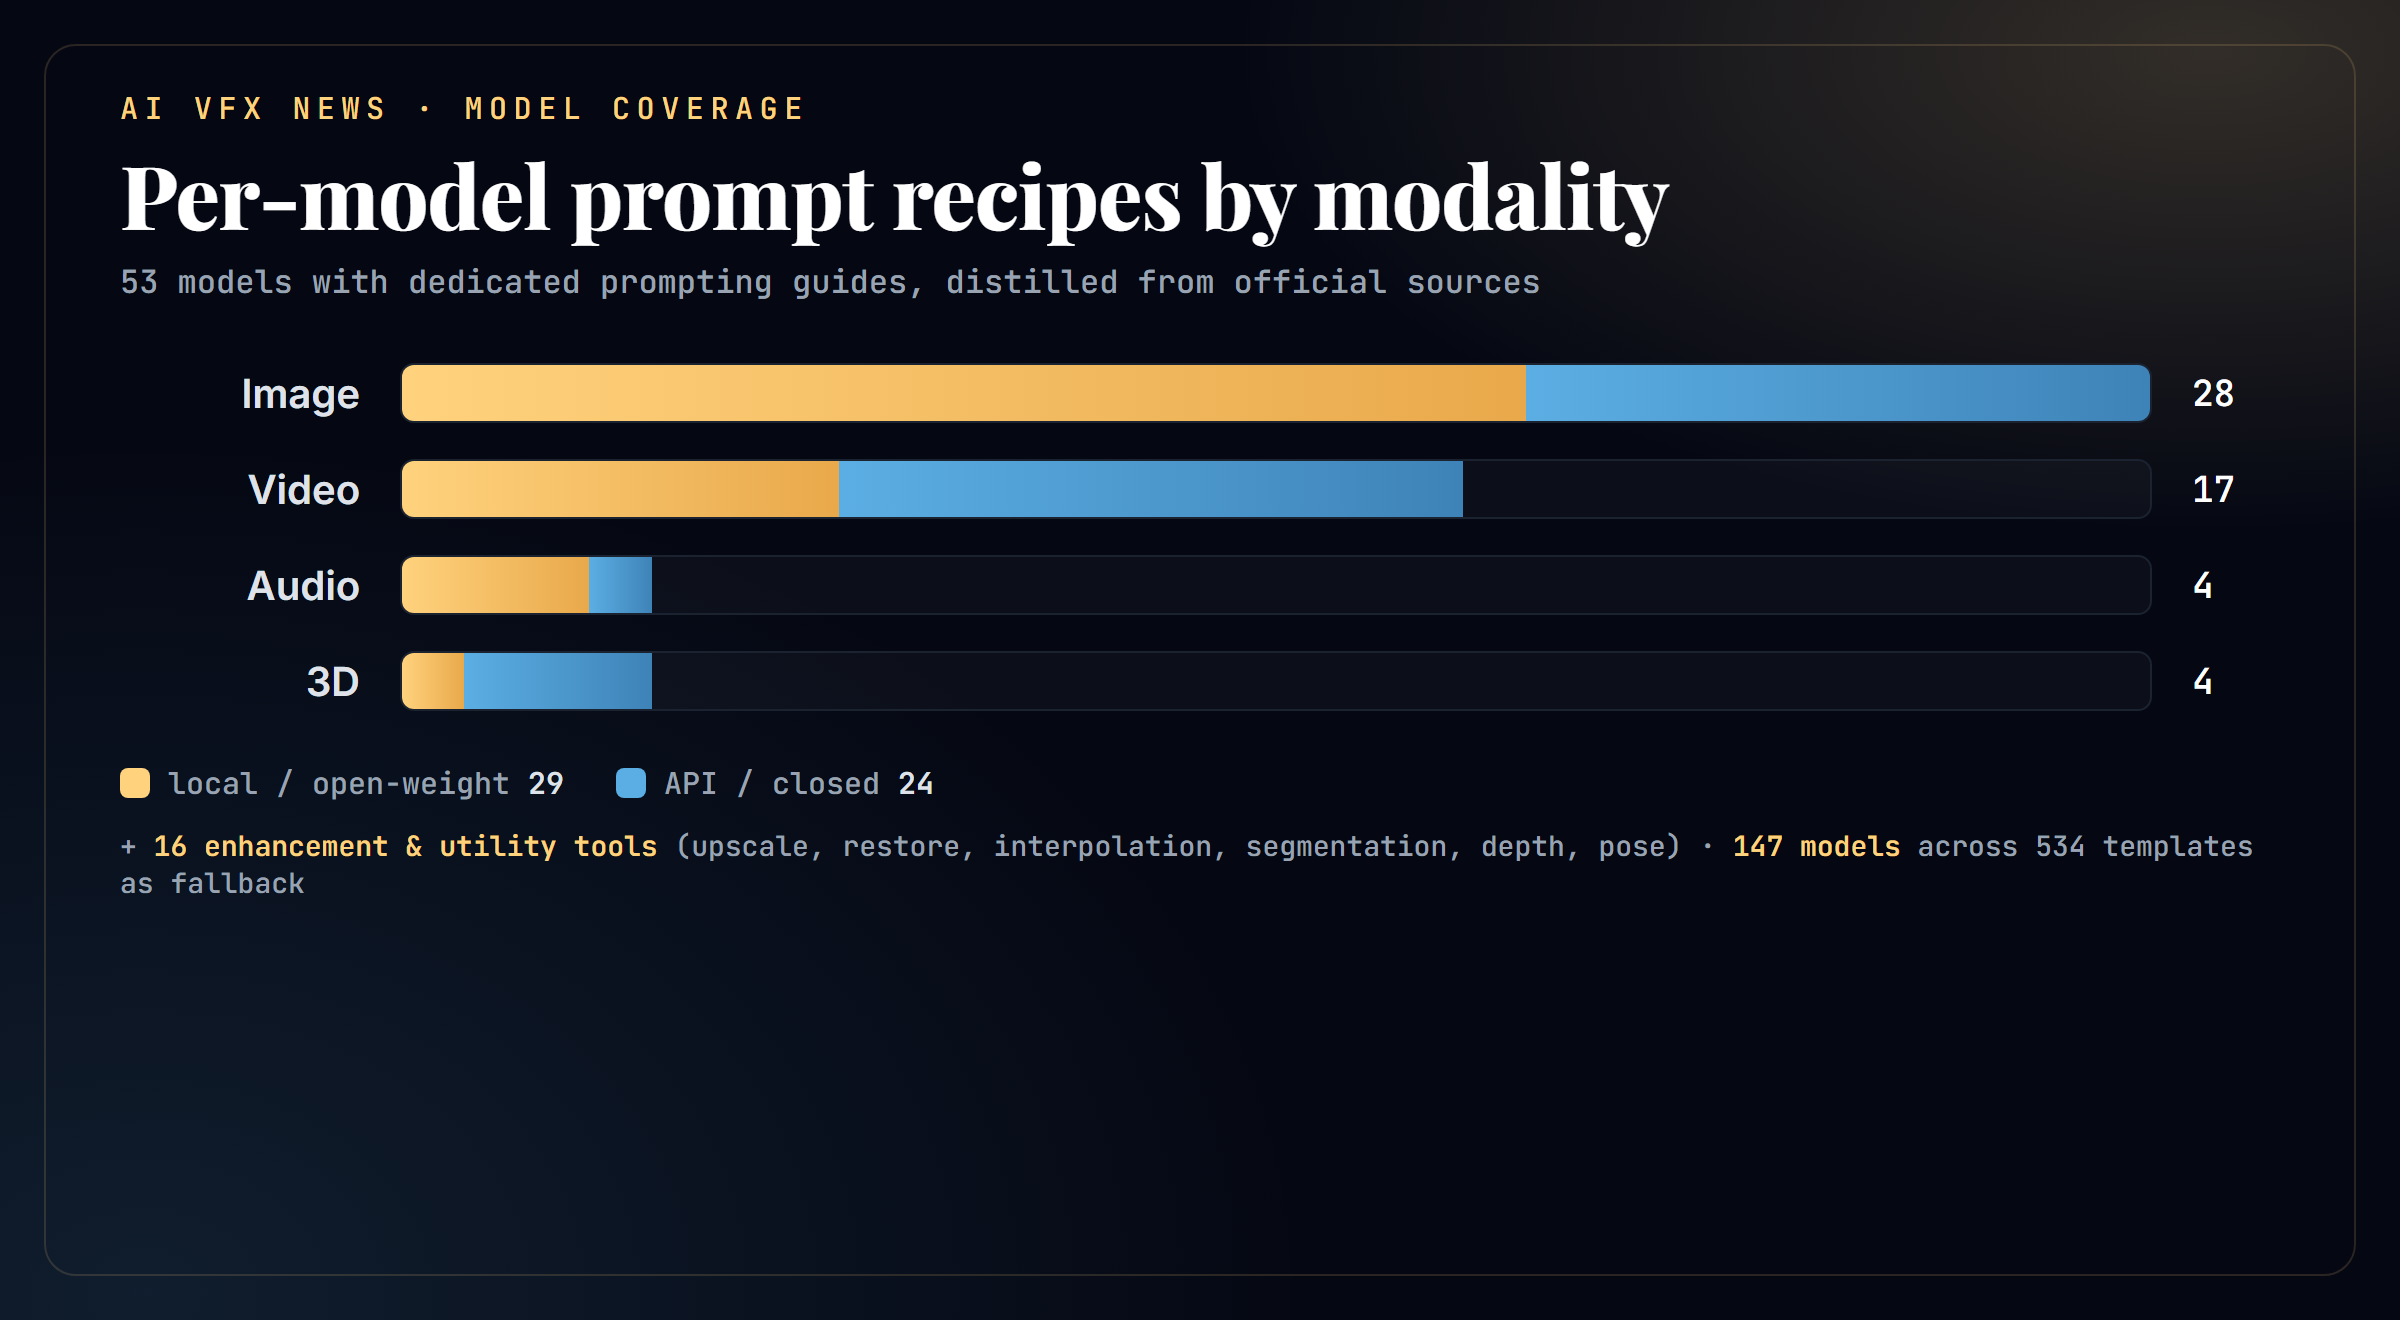
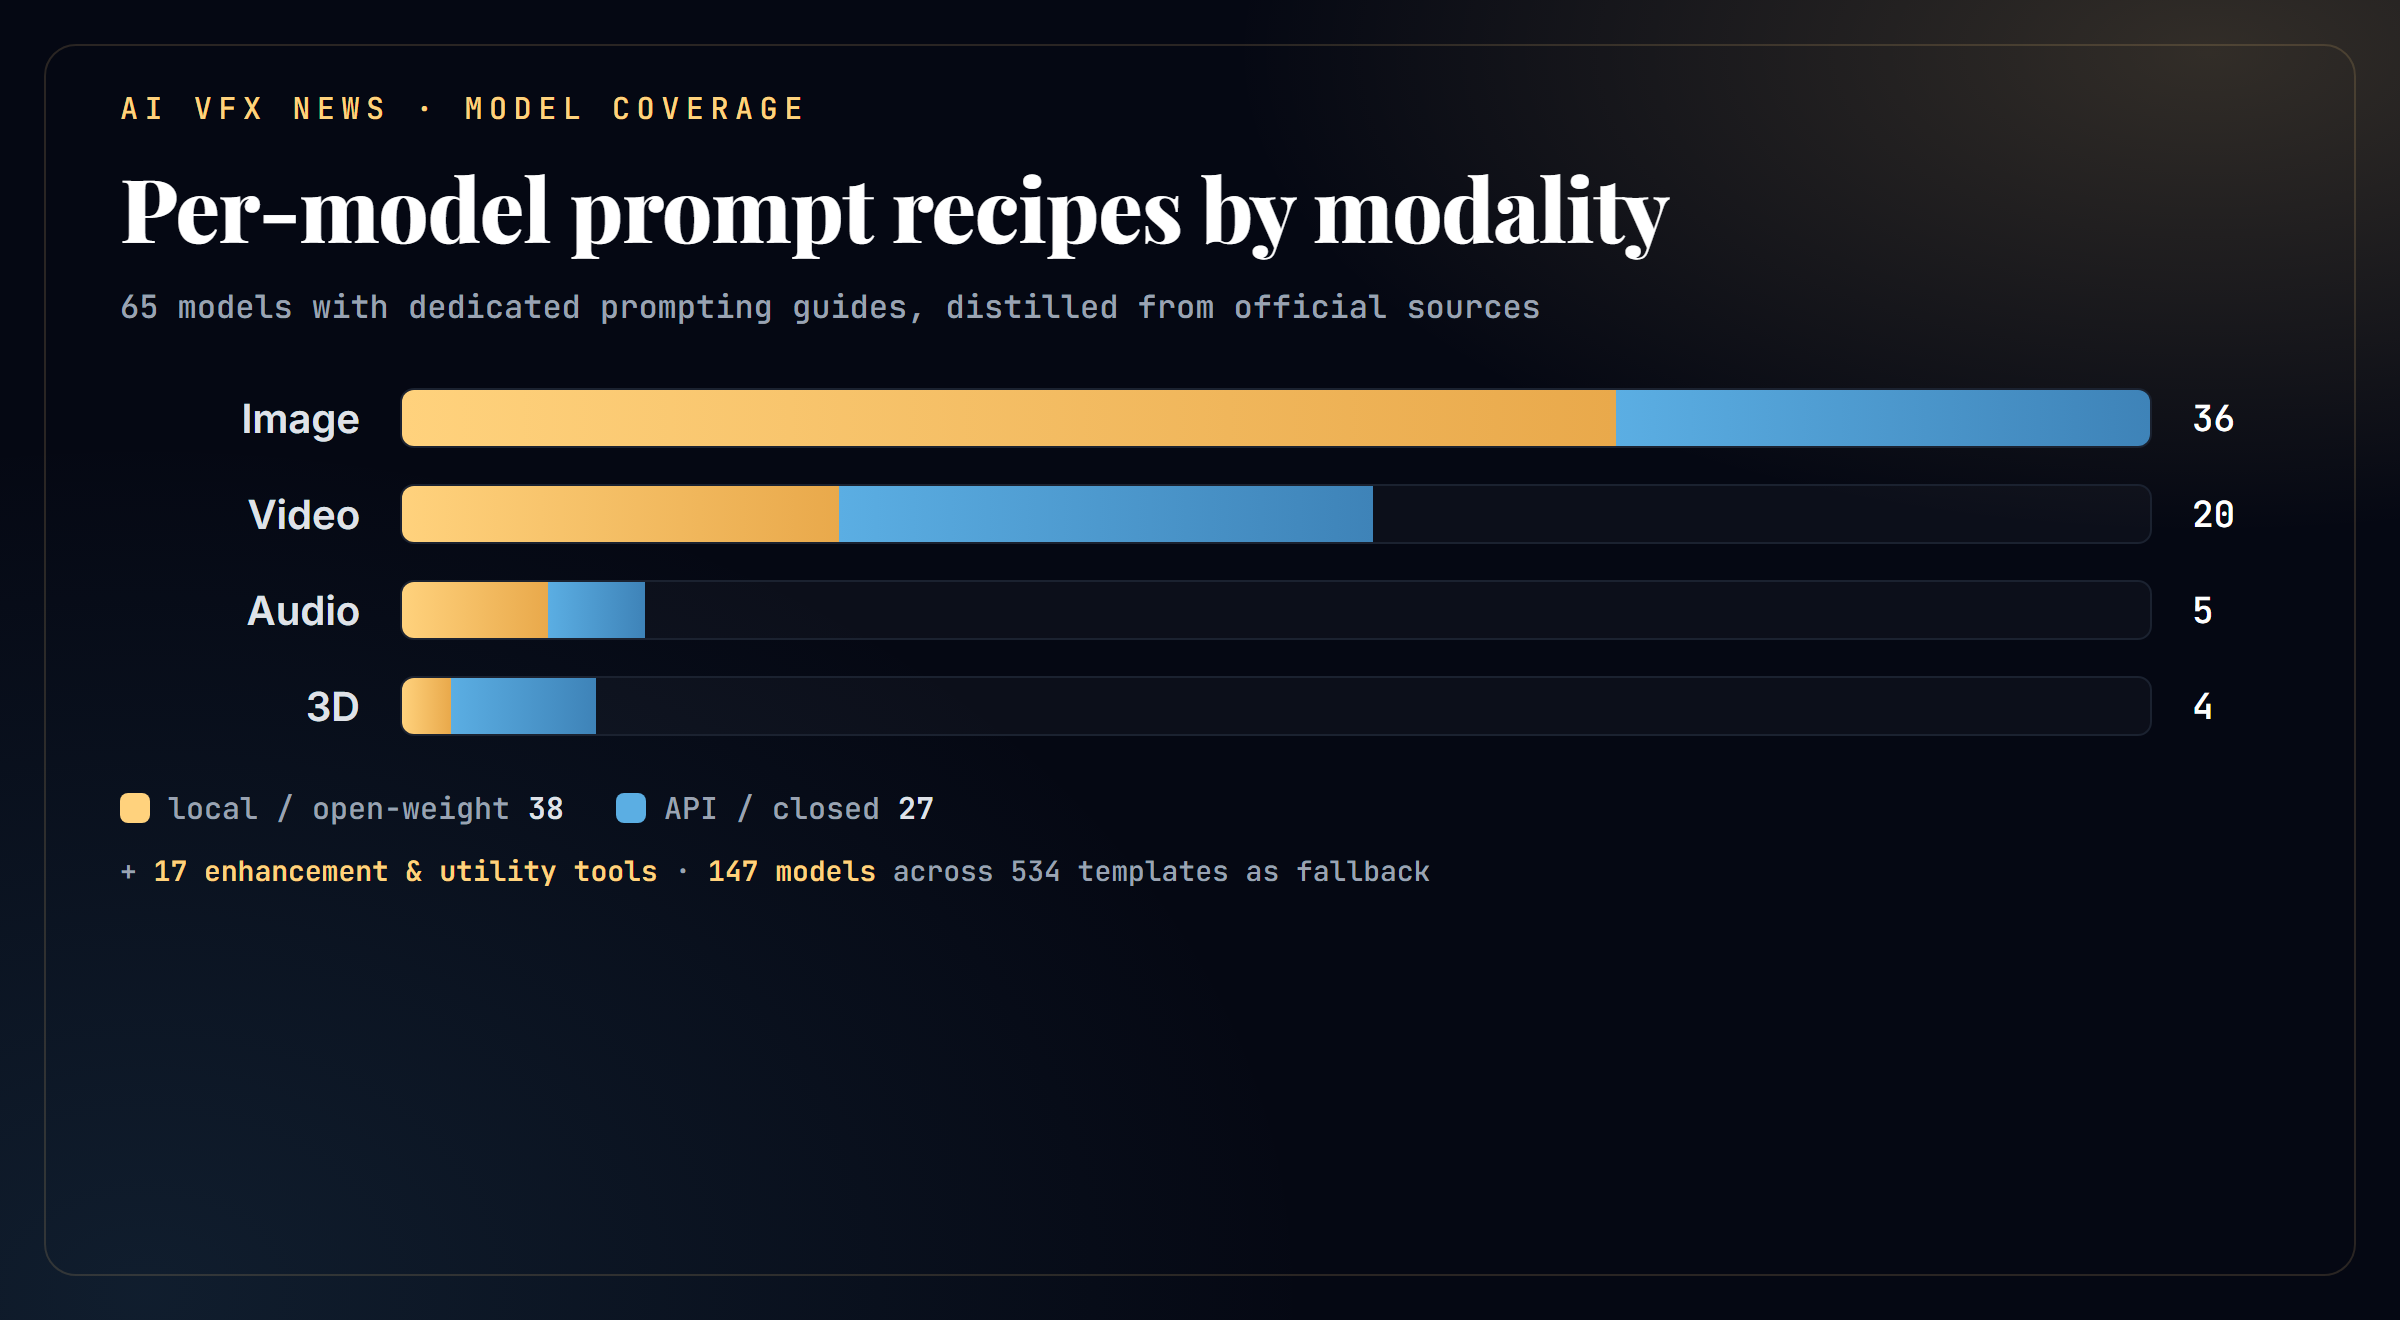
Add 12 newer/niche model recipes (incl. HappyHorse) + model-paths guide
RESPONSIBLE FOR: closing two gaps the owner flagged.
A - niche models now have real recipes (53 -> 65), researched from official docs.comfy.org pages + model cards:
    HappyHorse 1.0 (official prompt formula), Capybara, Bernini-R, Anima, NewBie (XML prompts), PixelDiT,
    Ovis-Image, Lens, Quiver (text->SVG), HuMo, SCAIL-2, Sonilo; VOID added to enhancement/utility (17 tools).
    MODELS.md "Newer and niche models" section; MODEL_INDEX.md reclassified; chart -> 65 (Image 36/Video 20/Audio 5/3D 4).
B - SKILL.md "Where models live, and how to download one": detect the real model root (Desktop uses a SHARED
    extra_model_paths dir, NOT <ComfyUI>/models), type->subfolder map, Desktop-safe direct curl download,
    the MCP download_model COMFYUI_PATH caveat, gated-model handling. So Claude on any machine knows where
    ComfyUI is, where its folders are, and where to put each file.
- README + GitHub description updated; synced to local skill.

Changed region(s): [[0.0312, 0.1242, 0.9375, 0.6833], [0.9062, 0.4348, 0.9375, 0.4659]]

diff --git a/skills/comfyui/MODELS.md b/skills/comfyui/MODELS.md
@@ -474,6 +474,82 @@ Qwen-Image-Edit, OmniGen (above), Seedream Edit, and Nano Banana edit, which are
 
 ---
 
+## Newer and niche models
+
+Recently added to the template library. Most now have official docs.comfy.org pages or model cards (researched from
+those); a few are thin on prompt specifics and say so.
+
+### Image
+
+**Capybara** (unified image + video, gen + edit), Glanty / xgen-universe, built on HunyuanVideo-1.5: T2I, image edit
+(TI2I), T2V, I2V, video edit. Natural language for generation, imperative instruction for edits ("Change the time to
+night"); optional Qwen3-VL-8B auto-rewrite expands short prompts. Image 720p / 50 steps, video 480p / 50 steps
+(frames 81/101/121), guidance 4.0; FP8 available; negatives not documented. Source: huggingface.co/xgen-universe/Capybara.
+
+**Bernini-R** (image/video relighting edit), ByteDance, Wan2.2-based (also a 1.3B Wan2.1 fine-tune ~2.6GB). No official
+prompt guide; prompt like a Wan/Qwen-edit relight: describe target lighting (direction, temperature, intensity, mood)
++ what to preserve ("keep subject and pose; relight as warm sunset key from camera-left"); use a reference image to
+carry lighting across a set. Treat steps/CFG like a Wan2.2 edit workflow. Source: huggingface.co/Comfy-Org/Bernini-R.
+
+**Anima** (anime t2i), CircleStone Labs, 2B (Qwen-3 0.6B encoder). Danbooru tags, natural language, or mix; order
+`[quality/meta/year/safety] [char count] [character] [series] [artist] [general]`; positive prefix `masterpiece,
+best quality, score_7, safe,`, negative `worst quality, low quality, score_1..3, artist name`; lowercase tags with
+spaces, artists prefixed `@`. 512-1536px, 30-50 steps, CFG 4-5, sampler er_sde / euler_a / dpmpp_2m_sde_gpu;
+negatives supported; weak at realism and text. Source: docs.comfy.org/tutorials/image/anima/anima.
+
+**NewBie (Exp0.1)** (anime t2i), 3.5B Next-DiT (Gemma3-4B + Jina-CLIP-v2, FLUX VAE). Danbooru tags or natural
+language, but trained on XML structured prompts that bind attributes per character. Use per-character XML blocks
+(`<character_1><gender>1girl</gender><appearance>...</appearance><clothing>...</clothing><action>...</action>
+<position>center_left</position></character_1>`) + a `<general_tags>` block for multi-character scenes; flat tags fine
+for single subjects. 1024x1024, ~28 steps. Source: docs.comfy.org/tutorials/image/newbie-image/newbie-image-exp-0-1.
+
+**PixelDiT** (t2i), NVIDIA, VAE-free pixel-space DiT (~1.3B, Gemma-2-2B-IT encoder). Plain natural-language positive +
+negative (both exposed), no special syntax. No VAE means no reconstruction artifacts, fine texture preserved; 1024px
+multi-aspect; steps/CFG not documented. Source: docs.comfy.org/tutorials/image/pixeldit/pixeldit.
+
+**Ovis-Image** (t2i, text rendering), Alibaba AIDC-AI, 7B optimized for legible text. Natural language, put literal
+text in quotes inside the description (`[scene/style] + "EXACT TEXT" + [typography/material/lighting]`); best for
+posters/banners/logos/UI. 1024px, 50 steps, CFG 5.0; negatives supported. Source: docs.comfy.org/tutorials/image/ovis/ovis-image.
+
+**Lens / Lens Turbo** (t2i), Microsoft, 3.8B MMDiT (GPT-OSS-20B encoder, FLUX.2 VAE); Turbo is the few-step distill.
+Clear descriptive natural-language sentences (FLUX/MMDiT conventions); the encoder favors prompt following over tags.
+1024px multi-aspect; Lens ~50 steps, Lens Turbo ~4-8 steps; CFG/negatives not documented; encoder can sit on CPU to
+fit 24GB. Source: docs.comfy.org/tutorials/image/lens/lens.
+
+**Quiver** (text/image to SVG), API partner node (SVG.io Arrow 1.1 / Max). Natural-language description in `prompt` +
+style hints in `instructions` ("minimalist unicorn icon for a SaaS dashboard" / "flat monochrome, rounded corners,
+clean geometry"); optional references (up to 4 / 16 on Max) + viewBox attributes. Lower temperature (~0.4) for clean
+geometry; output is real editable vector paths. Source: docs.quiver.ai ; blog.comfy.org/p/quiver-structured-svg-generation.
+
+### Video
+
+**HappyHorse 1.0**, Alibaba, 15B cinematic video model, API (muapi.ai / Model Studio partner nodes): T2V, I2V,
+reference-to-video (1-9 reference images), video edit; 3-15s at 720p/1080p. One natural-language paragraph, official
+formula `subject + environment + camera move + motion behavior + lighting + style`; keep motion small and specific
+("subtle wind in hair", not "dancing in a chaotic crowd"), ONE camera move (slow pan / dolly-in / handheld push-in,
+not "wild spinning drone"). Worked example: "young woman in red jacket on rainy neon street, medium shot, slow
+handheld push-in, slight head turn and blinking, wet pavement reflections, cinematic lighting, consistent face,
+stable background." R2V: 1-9 reference images lock identity/outfit/style across cuts (more refs = more consistency).
+Negatives not documented (hosted API); settings are API fields (720p/1080p, 3-15s), no sampler knobs.
+Source: docs.comfy.org/tutorials/partner-nodes/happyhorse/happyhorse1-0 ; happyhorsemodel.ai.
+
+**HuMo**, ByteDance + Tsinghua, human-centric video (HuMo-1.7B in ComfyUI): lip-synced video from text + image +
+audio. Text describes appearance/action/scene, image conditions identity, audio drives lip-sync; modes Text+Image /
+Text+Audio / Text+Image+Audio (TIA = most control, best lip-sync). Up to 97 frames @ 25fps, 720p (~3.9s); TIA wants
+>=24GB; negatives not documented. Source: github.com/Phantom-video/HuMo.
+
+**SCAIL-2**, zai-org (Zhipu/GLM), Wan-based end-to-end character animation: animates a reference character with a
+driving video (also replacement, multi-character), no pose maps/masks. Control by inputs, not text: 1 reference image
++ 1 driving video; tune `pose_strength` (exact-copy vs style adaptation); GGUF build for lower VRAM.
+Source: github.com/zai-org/SCAIL-2.
+
+### Audio
+
+**Sonilo**, AI music, ComfyUI partner node: primarily video-to-music (scores a video frame-synced), plus a
+text-to-music path. Video-to-music is promptless (analyzes visuals/pacing/emotion); optional brief mood+genre+
+instrument phrase refines ("Dreamy ambient electronic", "Lazy jazz instrumental"); output auto-matches the video's
+duration, ~20s, multiple variations. Not a lyric/structure tool. Source: docs.comfy.org/tutorials/partner-nodes/sonilo/video-to-music.
+
 ## Enhancement and utility (NOT prompt-driven)
 
 These are not text-prompted generators. They take an existing image/video, or run inside a graph, and improve or
@@ -530,14 +606,19 @@ upscale on a hero, frame interpolation on a clip, a depth map to drive ControlNe
   + eye/lip retargeting). Use to animate one portrait without per-subject training. Source: github.com/KwaiVGI/LivePortrait.
 - **Mediapipe** (landmarks): fast on-device face (478) / hand (21) / pose (33) landmarks (Holistic combines all).
   Use for lightweight keypoints for conditioning/masking/alignment. Source: ai.google.dev/edge/mediapipe.
+- **VOID** (video inpainting / object removal): Netflix open-source; removes a subject plus its shadows, reflections,
+  and the motion it caused. Control is a 4-value greyscale "quadmask" (remove / overlap / physically-affected / keep),
+  NOT a binary mask or text prompt. Two passes: Pass 1 base, Pass 2 optical-flow refinement for longer/textured clips.
+  Source: docs.comfy.org/tutorials/utility/void-video-inpainting.
 
 ## Sources and provenance
 
 Per-model guidance above is distilled from official sources: each maker's documentation and model cards (Black
 Forest Labs, Stability, Alibaba / Tongyi, ByteDance / BytePlus / Volcengine, Google, OpenAI, xAI, Kuaishou,
 Lightricks, Tencent, Luma, Runway, MiniMax, Recraft, Ideogram, Reve, Sber / FusionBrain, Resemble AI, Tripo,
-Hyper3D, Meshy, BRIA, Baidu, Meituan, NVIDIA, VectorSpaceLab, lodestones, Krea), the official ComfyUI tutorials
-at docs.comfy.org, and the per-model prompt templates shipped with the `anthropic-claude` ComfyUI node (by
+Hyper3D, Meshy, BRIA, Baidu, Meituan, NVIDIA, VectorSpaceLab, lodestones, Krea, Glanty / xgen-universe, CircleStone
+Labs, NewBie-AI, Alibaba AIDC-AI, Microsoft, SVG.io, Sonilo, Phantom-video, zai-org / Zhipu, Netflix), the official
+ComfyUI tutorials at docs.comfy.org, and the per-model prompt templates shipped with the `anthropic-claude` node (by
 alexmunteanu), which are themselves distilled from official prompting guides. The enhancement/utility entries are
 sourced from each project's GitHub / HuggingFace (Real-ESRGAN, SUPIR, SeedVR2, FlashVSR, Topaz, Magnific, FILM,
 RIFE, SAM3, BiRefNet, Depth Anything, DWPose, MoGe, IP-Adapter, LivePortrait, Mediapipe). Specs change; when a

diff --git a/skills/comfyui/SKILL.md b/skills/comfyui/SKILL.md
@@ -104,12 +104,14 @@ negative-prompt rule, and its settings. Never carry one model's style to another
 Ideogram, Nano Banana Pro/2, Seedream 4.x/5 Lite, Recraft, GPT-Image, Grok, Reve, Kandinsky, BRIA, OmniGen,
 Chroma, Krea, ERNIE-Image; (image edit) FLUX Kontext, Qwen-Image-Edit, FireRed, LongCat, ChronoEdit; (video)
 Wan 2.1-2.7, LTX-2.3 / 2 Pro, Hunyuan Video, SVD, Kling, Veo, Sora, Seedance, Luma, Runway, MiniMax, PixVerse,
-Vidu, Pika; (audio) Stable Audio, ACE-Step, ElevenLabs, ChatterBox; (3D) Hunyuan3D, Tripo, Rodin, Meshy.
+Vidu, Pika, HappyHorse, HuMo, SCAIL-2; (audio) Stable Audio, ACE-Step, ElevenLabs, ChatterBox, Sonilo; (3D)
+Hunyuan3D, Tripo, Rodin, Meshy; (newer/niche) Capybara, Bernini-R, Anima, NewBie, PixelDiT, Ovis-Image, Lens, Quiver.
 
 It also has an **Enhancement and utility** section (not prompt-driven, use as pipeline steps with settings not
 prompts): upscale/restore/interpolation (Real-ESRGAN, SUPIR, SeedVR2, FlashVSR, Topaz, Magnific, FILM, RIFE) and
 segmentation/depth/pose/conditioning (SAM3, BiRefNet, Depth Anything, DWPose, MoGe, IP-Adapter, LivePortrait,
-Mediapipe). For any model not detailed there, the template library + `/object_info` is the fallback, and the
+Mediapipe) and video object-removal (VOID). For any model not detailed there, the template library + `/object_info`
+is the fallback, and the
 matching official doc link is the source.
 
 ## In-graph Claude nodes (Layer 3) — pick the right one
@@ -147,6 +149,40 @@ Two JSON formats, keep both in mind:
 
 No extra "agent panel" node is required for this; the built-in Workflows sidebar is the bridge. (The
 `comfyui-mcp` ecosystem has an optional live-streaming panel; it is polish, not a requirement.)
+
+## Where models live, and how to download one (DETECT, do not assume)
+
+ComfyUI reads models from one or more model roots. On a **source install** it is `<ComfyUI>/models/<type>/`. On
+**Comfy Desktop** the active root is usually a SHARED folder set via `extra_model_paths.yaml`, NOT
+`<ComfyUI>/models`. Always detect the real root before downloading; a file in the wrong folder is invisible to ComfyUI.
+
+**Detect the real model root first:**
+- Read the ComfyUI startup log: it prints `Adding extra search path <type> <PATH>` for every model type, plus
+  `Setting output/input directory to: ...`. Those PATHs are the truth (MCP `get_logs`, or the Desktop log file).
+- Or read `<ComfyUI>/extra_model_paths.yaml` (and the `.example`).
+- Or ask the running server: `/object_info/CheckpointLoaderSimple`, `/UNETLoader`, `/VAELoader`, `/CLIPLoader`
+  list the files currently visible, which confirms the folder is wired after you drop a file in.
+
+**Model type -> subfolder** (under the detected root):
+- diffusion / UNET single-file model -> `diffusion_models` (sometimes `unet`)
+- full checkpoint (model+clip+vae bundled; some video like LTX ship this way) -> `checkpoints`
+- text encoder / CLIP (T5, umt5, gemma, clip_l, llava) -> `text_encoders` (older installs: `clip`)
+- VAE -> `vae` · LoRA -> `loras` · upscaler (ESRGAN, etc.) -> `upscale_models`
+- ControlNet -> `controlnet` · IP-Adapter -> `ipadapter` · CLIP vision -> `clip_vision`
+
+**How to download (Desktop-safe):**
+- Direct download is most reliable: `curl -fL -C - -o "<root>/<type>/<filename>" "<url>"`. Use the official
+  Comfy-Org repackaged Hugging Face repos (`.../resolve/main/...` direct links). `-C -` resumes a partial file.
+  Big models (tens of GB) are fine to run in the background; verify final size after.
+- The MCP `download_model` works ONLY if the MCP server has `COMFYUI_PATH` set, and it writes to
+  `COMFYUI_PATH/models/<type>`, which on Desktop is usually NOT the shared root, so files can land where ComfyUI
+  cannot see them. Prefer direct download to the detected root (or set COMFYUI_PATH to the real root first).
+- Gated models (e.g. Stability Stable Audio) need a Hugging Face login + license acceptance: ask the owner to
+  accept the license and place the file, or provide an HF token for an authenticated download.
+- The exact file set per model (diffusion model + text encoder(s) + VAE, and which folder each goes in) is on the
+  model's `docs.comfy.org/tutorials/...` page; follow it rather than guessing quant levels or filenames.
+- After download, confirm ComfyUI sees it: re-query `/object_info/<LoaderNode>`. Most model folders refresh live;
+  a brand-new subfolder may need a Workflows-sidebar refresh.
 
 ## Using multiple GPUs (it is NOT like a layer-split LLM server)
 

diff --git a/docs/MODEL_INDEX.md b/docs/MODEL_INDEX.md
@@ -10,8 +10,8 @@ template-only coverage (runnable via a template, no dedicated recipe yet).
 | 🔧 **Utility** | enhancement / utility tool, has a "when to use + settings" note (not prompt-driven) |
 | 📋 **Template only** | runnable via a workflow template, no dedicated recipe yet (niche / thin official docs) |
 
-**Totals:** ✅ 53 recipe families (covering ~105 model-name variants) · 🔧 16 utility tools · 📋 11 template-only ·
-plus text encoders / inference providers that are not generative models.
+**Totals:** ✅ 65 recipe families (covering ~117 model-name variants) · 🔧 17 utility tools · 📋 a few obscure
+template-only · plus text encoders / inference providers that are not generative models.
 
 ---
 
@@ -95,6 +95,24 @@ plus text encoders / inference providers that are not generative models.
 
 ---
 
+### Newer / niche (now with recipes)
+| Model | Modality | Run |
+|---|---|---|
+| Capybara | image + video (unified gen/edit) | local |
+| Bernini-R | image/video relighting edit | local |
+| Anima | image (anime t2i) | local |
+| NewBie | image (anime t2i, XML prompts) | local |
+| PixelDiT | image (VAE-free t2i) | local |
+| Ovis-Image | image (text rendering t2i) | local |
+| Lens / Lens Turbo | image (t2i) | local |
+| Quiver | image (text/image to SVG) | API |
+| HappyHorse 1.0 | video (t2v/i2v/r2v/edit) | API |
+| HuMo | video (audio+image+text, lip-sync) | local |
+| SCAIL-2 | video (character animation) | local |
+| Sonilo | audio (music / video soundtrack) | API |
+
+---
+
 ## 🔧 Enhancement and utility tools
 
 Not prompt-driven, see the "Enhancement and utility" section in [`MODELS.md`](../skills/comfyui/MODELS.md) for
@@ -106,17 +124,17 @@ when-to-use + settings.
 - **Depth / geometry:** Depth Anything v2, Depth Anything v3, MoGe
 - **Pose / landmarks:** DWPose, Mediapipe (also SDPose-OOD)
 - **Conditioning / animation:** IP-Adapter, LivePortrait
+- **Video object removal:** VOID (Netflix, quadmask video inpainting)
 
 ---
 
 ## 📋 Template-only (runnable, no recipe yet)
 
-These appear in the template library but lack a dedicated prompt recipe, mostly niche or very new models with thin
-official prompting docs. Run them from their template; prompt them with the closest family's approach from
-`MODELS.md` as a starting point.
-
-Capybara, HappyHorse 1.0, Bernini-R, Anima, Sonilo, NewBie, PixelDiT, SCAIL-2, HuMo, Seed 2.0, VOID, plus a few
-one-off entries (Quiver, Lens, PiD, HitPaw, Reimagine).
+After the niche-model research pass, almost everything in the library now has a recipe or a utility note. What
+remains here is a short tail of one-off entries with no official prompting docs (e.g. HitPaw and Reimagine, which are
+enhancement-style; PiD). Run them from their template and prompt them with the closest family's approach from
+`MODELS.md` as a starting point. Note: ByteDance **Seed 2.0** is an image/video *understanding* model (analysis to
+text), not a generator, so it lives under "Not generative models" below, not here.
 
 ---
 

diff --git a/README.md b/README.md
@@ -64,18 +64,19 @@ prompting reference distilled from **official sources** (each maker's docs and m
 the per-model templates from the `anthropic-claude` node). When you name a model in a request or a workflow,
 Claude reads that model's entry first and prompts it correctly.
 
-Covered today (53 models with recipes): FLUX.1/.2 + Kontext, Z-Image, Qwen-Image/Edit, SDXL, SD1.5/3.5, HiDream,
+Covered today (65 models with recipes): FLUX.1/.2 + Kontext, Z-Image, Qwen-Image/Edit, SDXL, SD1.5/3.5, HiDream,
 Ideogram, Nano Banana Pro/2, Seedream, Recraft, GPT-Image, Grok, Reve, Kandinsky, BRIA, OmniGen, Chroma, Krea,
-ERNIE-Image, FireRed/LongCat/ChronoEdit (edit), Wan 2.1-2.7, LTX-2.3/2 Pro, Hunyuan Video, SVD, Kling, Veo, Sora,
-Seedance, Luma, Runway, MiniMax, PixVerse, Vidu, Pika, Stable Audio, ACE-Step, ElevenLabs, ChatterBox, Hunyuan3D,
-Tripo, Rodin, Meshy. Plus a separate **Enhancement and utility** section (not prompt-driven, settings not prompts):
+ERNIE-Image, FireRed/LongCat/ChronoEdit (edit), Capybara, Bernini-R, Anima, NewBie, PixelDiT, Ovis-Image, Lens,
+Quiver, Wan 2.1-2.7, LTX-2.3/2 Pro, Hunyuan Video, SVD, Kling, Veo, Sora, Seedance, Luma, Runway, MiniMax, PixVerse,
+Vidu, Pika, HappyHorse, HuMo, SCAIL-2, Stable Audio, ACE-Step, ElevenLabs, ChatterBox, Sonilo, Hunyuan3D, Tripo,
+Rodin, Meshy. Plus a separate **Enhancement and utility** section (not prompt-driven, settings not prompts):
 upscalers and restorers (Real-ESRGAN, SUPIR, SeedVR2, FlashVSR, Topaz, Magnific), frame interpolation (FILM, RIFE),
-and conditioning helpers (SAM3, BiRefNet, Depth Anything, DWPose, MoGe, IP-Adapter, LivePortrait, Mediapipe).
-Anything else falls back to the template library.
+conditioning helpers (SAM3, BiRefNet, Depth Anything, DWPose, MoGe, IP-Adapter, LivePortrait, Mediapipe), and video
+object removal (VOID). Anything else falls back to the template library.
 
 <div align="center">
 
-<img src="docs/assets/models_by_modality.png" width="760" alt="Per-model prompt recipes by modality: 28 image, 17 video, 4 audio, 4 3D, 53 total, split local/open-weight vs API, plus 16 enhancement and utility tools">
+<img src="docs/assets/models_by_modality.png" width="760" alt="Per-model prompt recipes by modality: 36 image, 20 video, 5 audio, 4 3D, 65 total, split local/open-weight vs API, plus 17 enhancement and utility tools">
 
 </div>
 
@@ -136,7 +137,7 @@ comfyui-claude-kit/
 ├── skills/comfyui/                  SKILL.md + comfy_client.py  (Layer 1, ours)
 ├── tools/gen_quick_index.py         rebuild the template lookup index
 ├── snippets/claude_md_activation.md auto-activation block appended to CLAUDE.md
-├── skills/comfyui/MODELS.md         per-model prompting recipes (53 models) + enhancement/utility
+├── skills/comfyui/MODELS.md         per-model prompting recipes (65 models) + enhancement/utility
 ├── docs/MODEL_INDEX.md              every model in the library and what the kit has for it
 ├── docs/BOOTSTRAP.md                run once on a new machine
 ├── docs/LAYERS.md                   the four layers explained